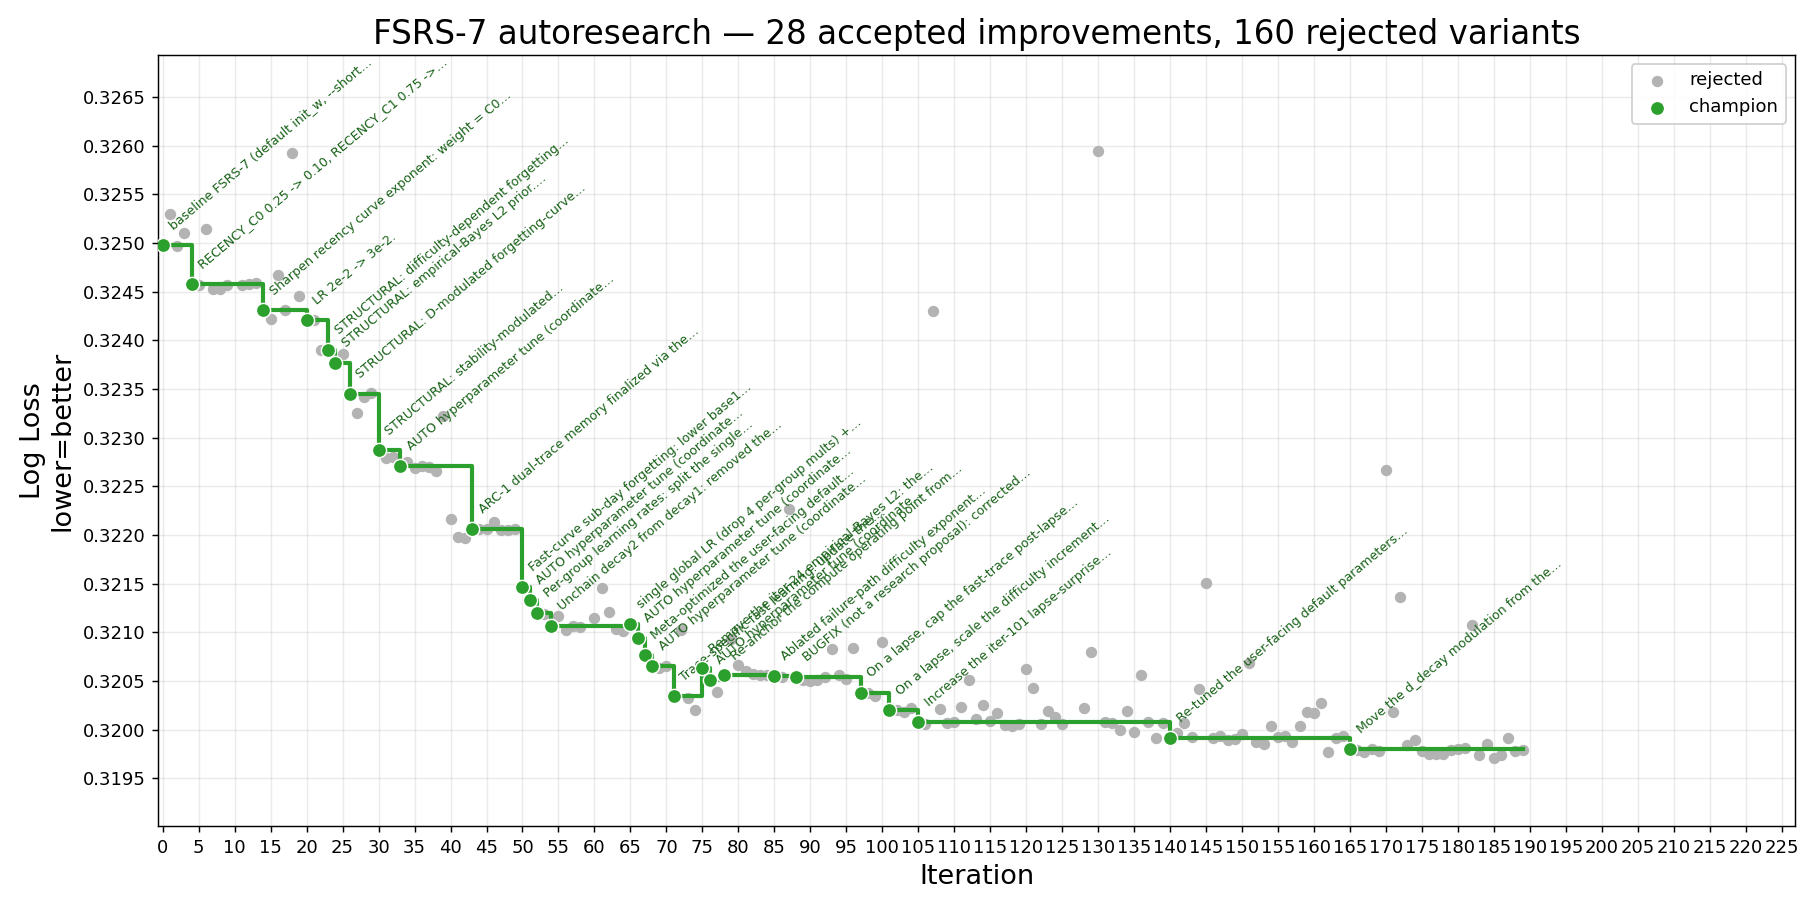
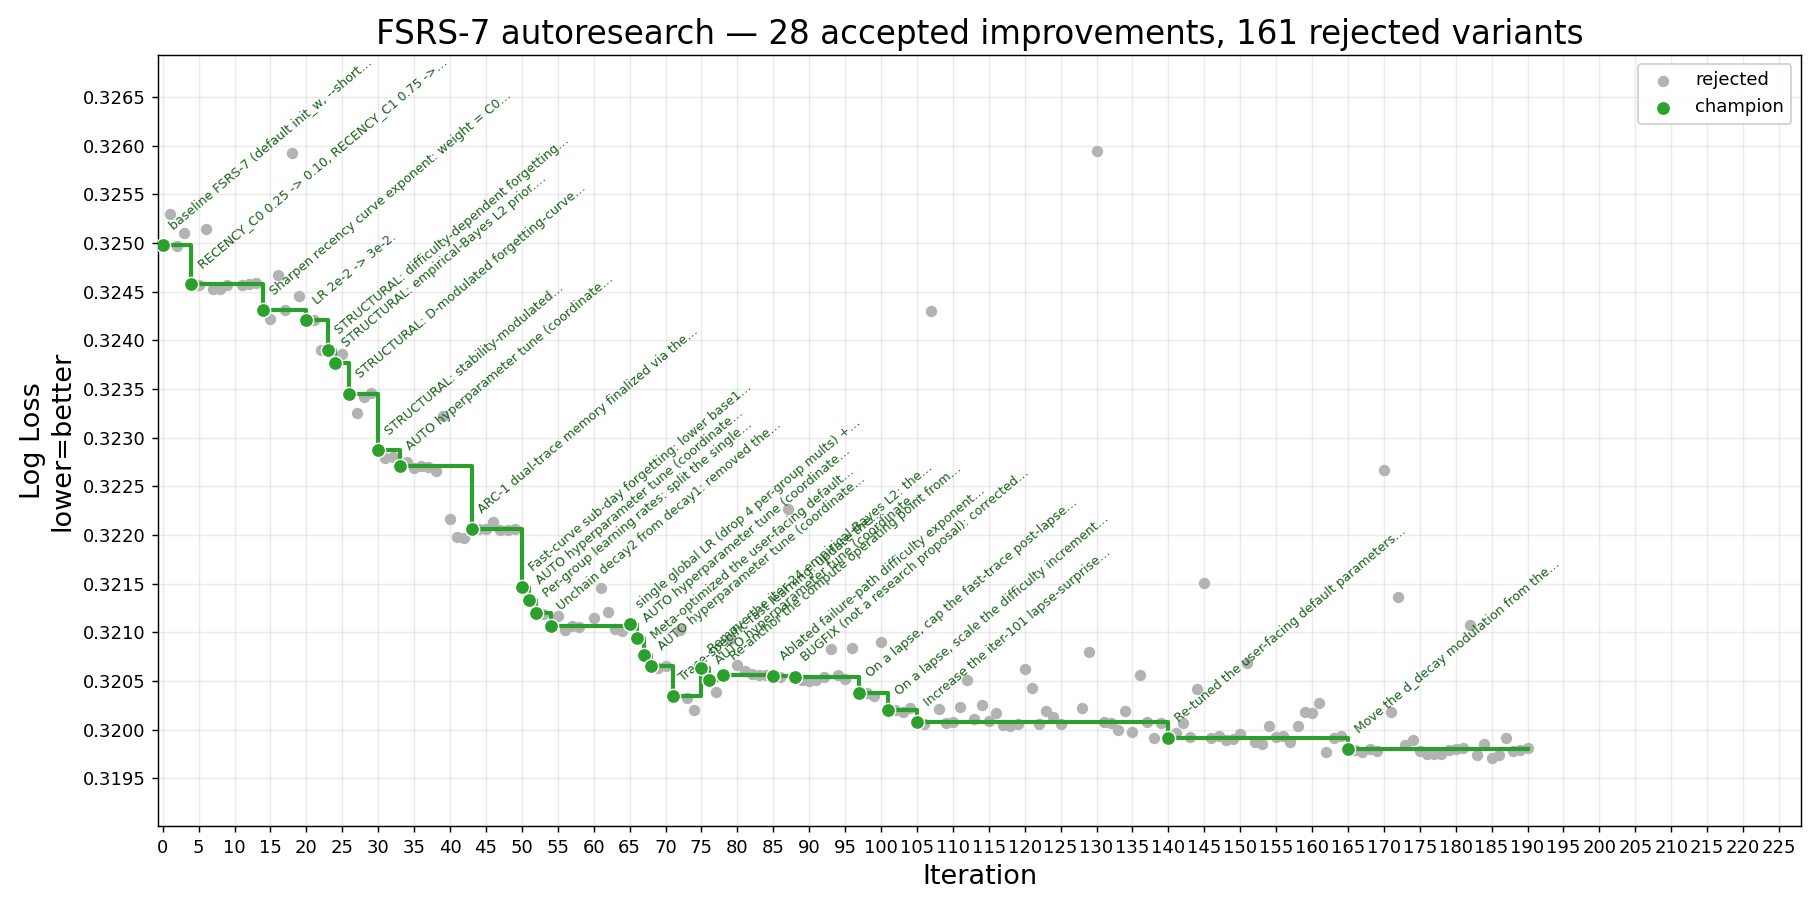
iter-190 rejected (-8.6e-6): additive encoding floor on long-trace success; multiplicative-only growth validated

diff --git a/result/history.md b/result/history.md
@@ -1,6 +1,6 @@
 # FSRS-7 autoresearch — iteration history
 
-_189 record(s). Generated from `history.jsonl` — do not edit by hand._
+_190 record(s). Generated from `history.jsonl` — do not edit by hand._
 
 | # | Time (UTC) | Thresh. | LL before | LL after | Δ LL | Cx before | Cx after | Δ Cx % | Status | Summary |
 |--:|---|---:|---:|---:|---:|---:|---:|---:|---|---|
@@ -193,3 +193,4 @@ _189 record(s). Generated from `history.jsonl` — do not edit by hand._
 | 187 | 2026-06-10T17:34:59 | 0.0001 | 0.31980 | 0.31991 | -0.00011 | 17,631 | 17,664 | +0.19% | rejected | Decouple the L2-to-default prior from Adam: anchor spring applied in the update (AdamW-style); bundled hp_tune. |
 | 188 | 2026-06-10T18:10:41 | 0.0001 | 0.31980 | 0.31978 | +0.00003 | 17,631 | 17,654 | +0.13% | rejected | Size-aware per-row LR: scale each row's LR by (n_steps/256)^alpha; sweep alpha +/-0.25, hp_tune bundle on the winner. |
 | 189 | 2026-06-10T18:40:49 | 0.0001 | 0.31980 | 0.31979 | +0.00001 | 17,631 | 17,687 | +0.32% | rejected | Replace Adam with NAdam (Nesterov numerator: beta1*m_hat + (1-beta1)*g_hat, plain bias correction); bundled hp_tune. |
+| 190 | 2026-06-10T18:53:25 | 0.0001 | 0.31980 | 0.31981 | -0.00001 | 17,631 | 17,700 | +0.39% | rejected | Additive encoding floor on long-trace success stability: new_s_long >= s_long + delta, fixed delta swept 0.05/0.15/0.4. |
